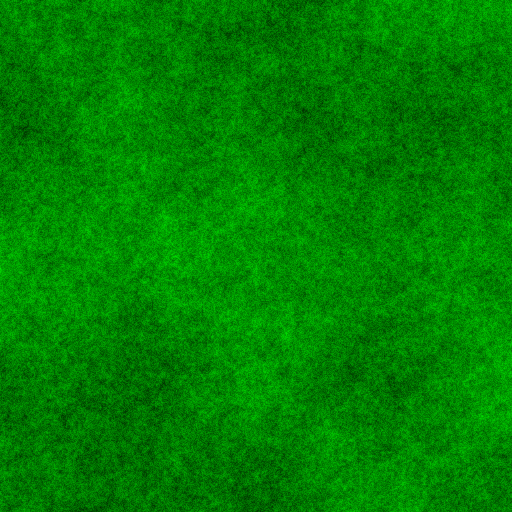
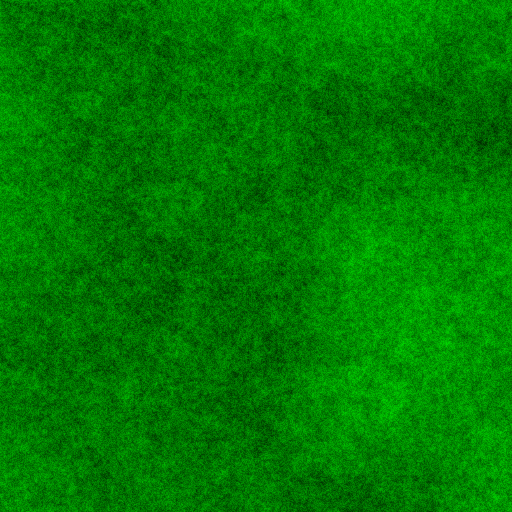
Current time is now default seed

diff --git a/apps/terrain/genHeightmap.js b/apps/terrain/genHeightmap.js
@@ -10,8 +10,11 @@ function foldOctaves(octaves, weight) {
 		return lmat.zip(rmat, (x, y, l, r) => l * lweight + r * rweight)
 	})
 }
+function now() {
+	return new Date().getTime()
+}
 function genHeightmap(options) {
-	const seed = options.seed || 0
+	const seed = options.seed || now()
 
 	const minOctave = options.octaves.min
 	const maxOctave = options.octaves.max
